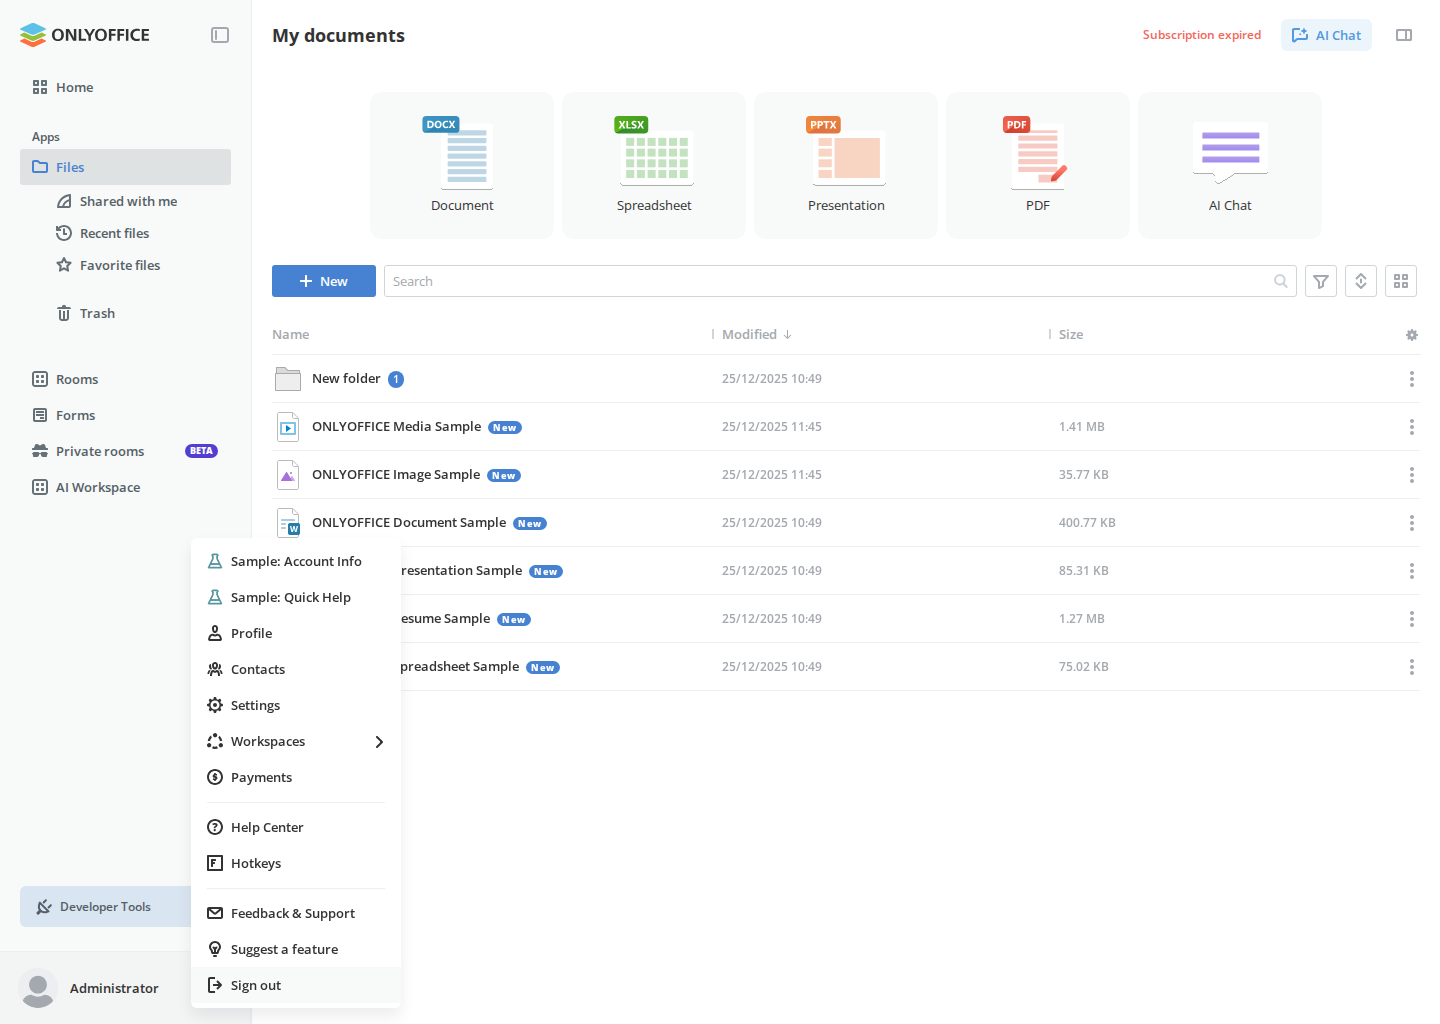
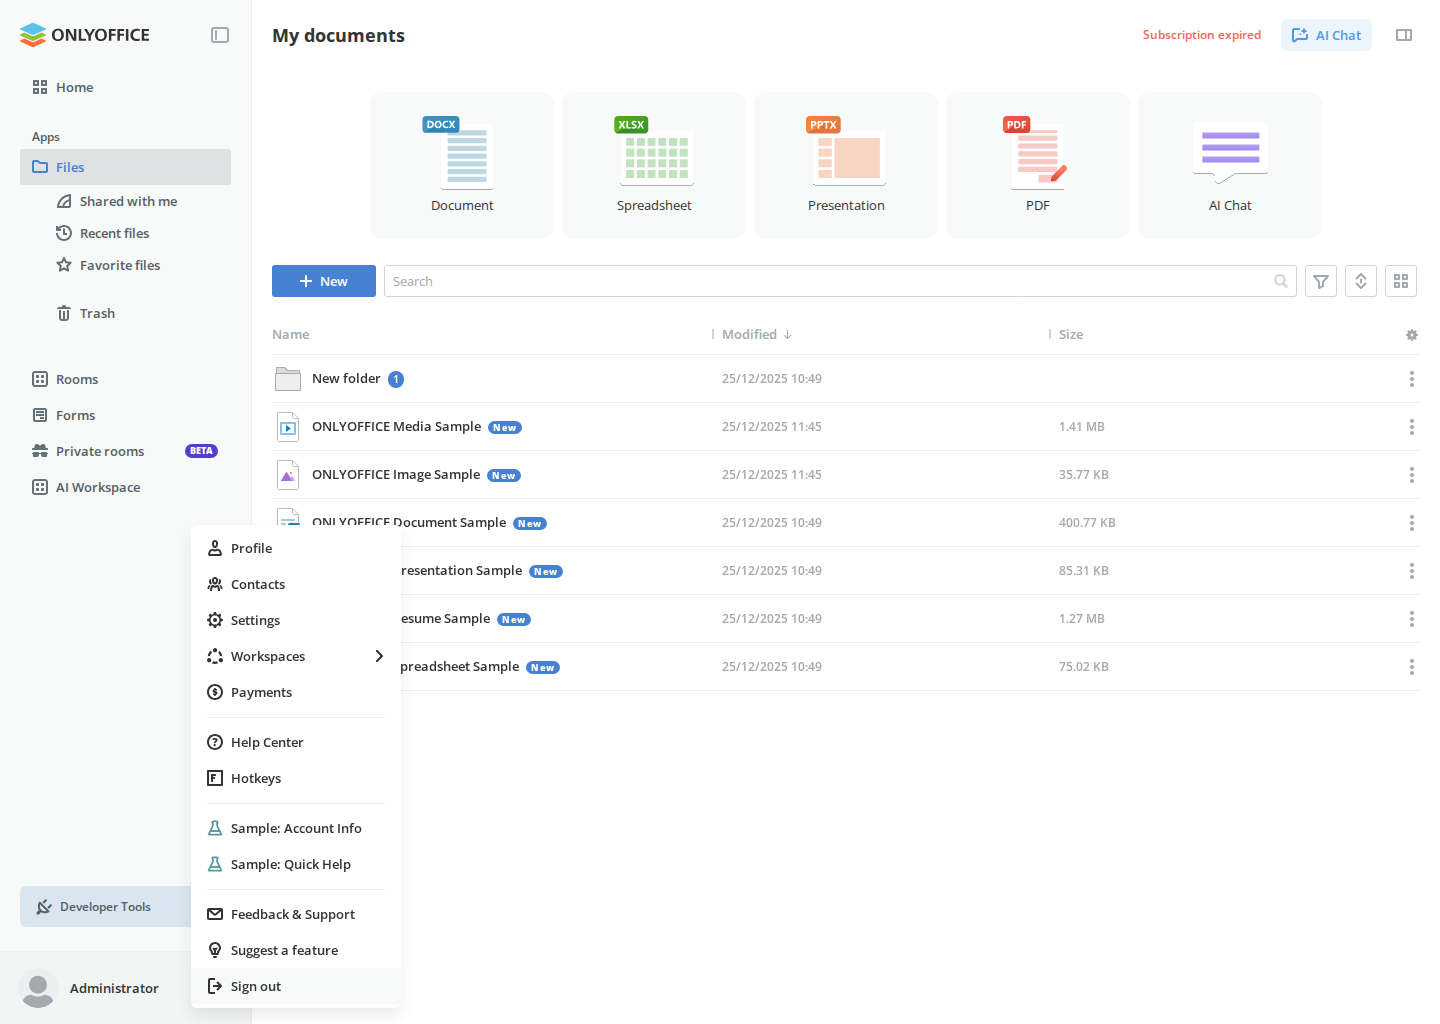
Client: Plugins: test the More options submenu of the profile menu and re-capture its screenshots

Changed region(s): [[0.125, 0.5, 0.25, 0.9688]]

diff --git a/packages/client/__tests__/plugins/profile-menu.spec.ts b/packages/client/__tests__/plugins/profile-menu.spec.ts
@@ -26,6 +26,8 @@
 
 import {
   filesSettingsHandler,
+  mockModalDialogPlugin,
+  mockProfileMenuPlugin,
   myDocumentsHandler,
   myHandler,
   rootHandler,
@@ -33,12 +35,15 @@ import {
   settingsHandler,
   TypeSettings,
   webPluginsHandler,
+  webPluginsListHandler,
 } from "@docspace/shared/__mocks__/handlers";
 import { expectScreenshot } from "@docspace/shared/__mocks__/e2e";
 
 import { expect, test, TEST_PORT } from "../fixtures/base";
 
 const PLUGIN_REQUEST_URL = "**/plugins/profile-menu/plugin.js";
+const MODAL_DIALOG_PLUGIN_REQUEST_URL =
+  "**/plugins/modal-dialog-sample/plugin.js";
 
 // Personal folder — app is fully authenticated here.
 const PERSONAL_FOLDER_URL = "/rooms/personal/filter?folder=12764";
@@ -54,17 +59,35 @@ async function openProfileMenu(
   await profileIconButton.click();
 }
 
+/** The data-testids from `ids` that the open menu shows, in menu order. */
+async function menuOrder(
+  page: import("@playwright/test").Page,
+  ids: string[],
+): Promise<string[]> {
+  return page.evaluate((wanted) => {
+    const found = [...document.querySelectorAll("[data-testid]")]
+      .map((element) => element.getAttribute("data-testid"))
+      .filter((id): id is string => !!id && wanted.includes(id));
+
+    return [...new Set(found)];
+  }, ids);
+}
+
+const portalHandlers = () => [
+  rootHandler(TEST_PORT),
+  filesSettingsHandler(TEST_PORT),
+  settingsHandler(TEST_PORT, TypeSettings.AuthenticatedWithPlugins),
+  selfActivationStatusHandler(TEST_PORT, null, false, true),
+  myHandler(TEST_PORT, true),
+  myDocumentsHandler(TEST_PORT, true),
+];
+
 // ─── Test suite ───────────────────────────────────────────────────────────────
 
 test.describe("Profile Menu Sample Plugin", () => {
   test.beforeEach(({ mockRequest }) => {
     mockRequest.use(
-      rootHandler(TEST_PORT),
-      filesSettingsHandler(TEST_PORT),
-      settingsHandler(TEST_PORT, TypeSettings.AuthenticatedWithPlugins),
-      selfActivationStatusHandler(TEST_PORT, null, false, true),
-      myHandler(TEST_PORT, true),
-      myDocumentsHandler(TEST_PORT, true),
+      ...portalHandlers(),
       webPluginsHandler(TEST_PORT, "withProfileMenuPlugin"),
     );
   });
@@ -89,13 +112,7 @@ test.describe("Profile Menu Sample Plugin", () => {
     await expect(accountInfoItem).toBeVisible();
     await expect(quickHelpItem).toBeVisible();
 
-    const menuOrder = await page.evaluate((ids) => {
-      const found = [...document.querySelectorAll("[data-testid]")]
-        .map((element) => element.getAttribute("data-testid"))
-        .filter((id): id is string => !!id && ids.includes(id));
-
-      return [...new Set(found)];
-    }, [
+    const order = await menuOrder(page, [
       "user-menu-profile",
       "user-menu-hotkeys",
       "profile-menu-sample-account-info",
@@ -105,7 +122,7 @@ test.describe("Profile Menu Sample Plugin", () => {
     ]);
 
     // Plugin items get a block of their own, above the chat and support block.
-    expect(menuOrder).toEqual([
+    expect(order).toEqual([
       "user-menu-profile",
       "user-menu-hotkeys",
       "profile-menu-sample-account-info",
@@ -155,6 +172,80 @@ test.describe("Profile Menu Sample Plugin", () => {
       .filter({ hasText: "Quick help opened!" });
     await expect(toast).toBeVisible();
     await expect(toast).toHaveAttribute("data-type", "info");
+  });
+});
+
+test.describe("Profile menu with three plugin entries", () => {
+  test.beforeEach(({ mockRequest }) => {
+    mockRequest.use(
+      ...portalHandlers(),
+      // Two entries from profile-menu and one from modal-dialog-sample.
+      webPluginsListHandler(TEST_PORT, [
+        mockProfileMenuPlugin,
+        mockModalDialogPlugin,
+      ]),
+    );
+  });
+
+  test("Three entries fold into More options, which opens on click", async ({
+    page,
+    baseUrl,
+  }) => {
+    const pluginsLoaded = Promise.all([
+      page.waitForResponse(PLUGIN_REQUEST_URL),
+      page.waitForResponse(MODAL_DIALOG_PLUGIN_REQUEST_URL),
+    ]);
+    await page.goto(`${baseUrl}${PERSONAL_FOLDER_URL}`);
+    await pluginsLoaded;
+
+    await openProfileMenu(page);
+
+    const moreOptions = page.getByTestId("user-menu-plugins");
+    const accountInfoItem = page.getByTestId(
+      "profile-menu-sample-account-info",
+    );
+    const quickHelpItem = page.getByTestId("profile-menu-sample-quick-help");
+    const aboutItem = page.getByTestId("modal-dialog-sample-about");
+
+    await expect(moreOptions).toBeVisible();
+    await expect(moreOptions).toContainText("More options");
+    await expect(accountInfoItem).toBeHidden();
+    await expect(quickHelpItem).toBeHidden();
+    await expect(aboutItem).toBeHidden();
+
+    expect(
+      await menuOrder(page, [
+        "user-menu-hotkeys",
+        "user-menu-plugins",
+        "user-menu-support",
+        "user-menu-logout",
+      ]),
+    ).toEqual([
+      "user-menu-hotkeys",
+      "user-menu-plugins",
+      "user-menu-support",
+      "user-menu-logout",
+    ]);
+
+    await expectScreenshot(page, [
+      "desktop",
+      "plugins-profile-menu",
+      "profile-menu_more-options.png",
+    ]);
+
+    await moreOptions.click();
+
+    await expect(accountInfoItem).toBeVisible();
+    await expect(quickHelpItem).toBeVisible();
+    await expect(aboutItem).toBeVisible();
+
+    await accountInfoItem.click();
+
+    const toast = page
+      .getByTestId("toast-content")
+      .filter({ hasText: "Account info requested!" });
+    await expect(toast).toBeVisible();
+    await expect(toast).toHaveAttribute("data-type", "success");
   });
 });
 

diff --git a/packages/shared/__mocks__/handlers/settings/index.ts b/packages/shared/__mocks__/handlers/settings/index.ts
@@ -62,6 +62,8 @@ import {
   webPluginsHandler,
   webPluginsListHandler,
   mockWorkspaceAppPlugin,
+  mockProfileMenuPlugin,
+  mockModalDialogPlugin,
   webPluginsAddHandler,
   webPluginsUpdateHandler,
   webPluginsDeleteHandler,
@@ -111,6 +113,8 @@ export {
   webPluginsHandler,
   webPluginsListHandler,
   mockWorkspaceAppPlugin,
+  mockProfileMenuPlugin,
+  mockModalDialogPlugin,
   webPluginsAddHandler,
   webPluginsUpdateHandler,
   webPluginsDeleteHandler,
